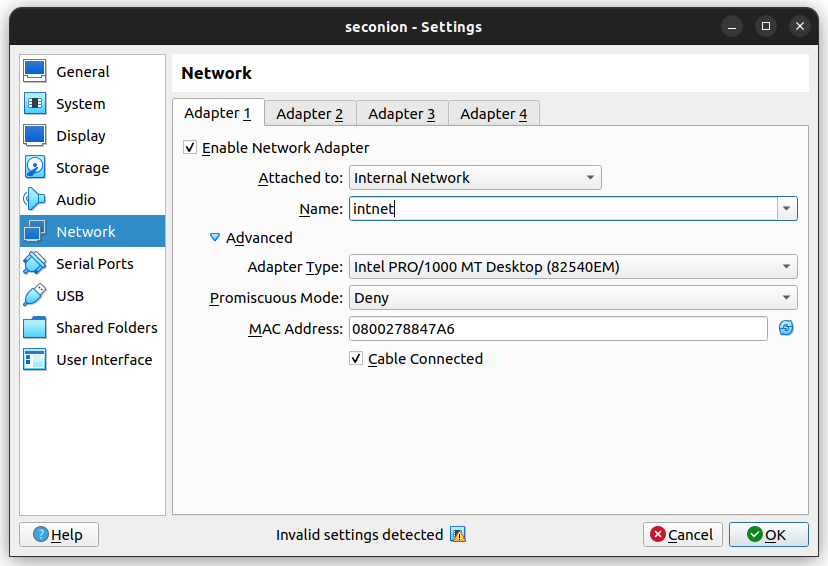
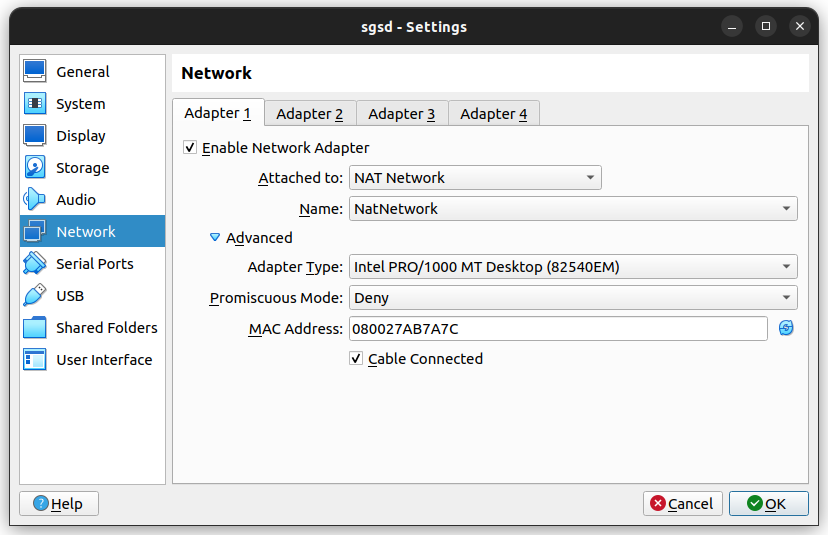
Edited Internal Net --> Nat Net

diff --git a/README.md b/README.md
@@ -20,7 +20,7 @@ Make sure to select "Ubuntu(64-bit)" version and check "Skip Unatttended Install
 
 ![alt text](./images/sec-install-2.png)
 
-- Now we are clicking on settings for the seconion VM. We are disabling audio, which we don't need. For Network, we will have two adapters; the first one will be a Internal Network for the interface & the second one will be a Bridged Adapter with Promiscuous Mode to "Allow VMs" for monitoring.
+- Now we are clicking on settings for the seconion VM. We are disabling audio, which we don't need. For Network, we will have two adapters; the first one will be a NAT Network for the interface & the second one will be a Bridged Adapter with Promiscuous Mode to "Allow VMs" for monitoring.
 
 ![alt text](./images/sec-install-3.png)
 This step is optional.
